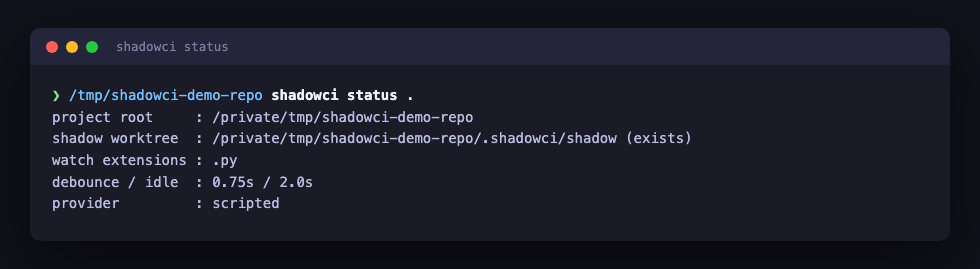
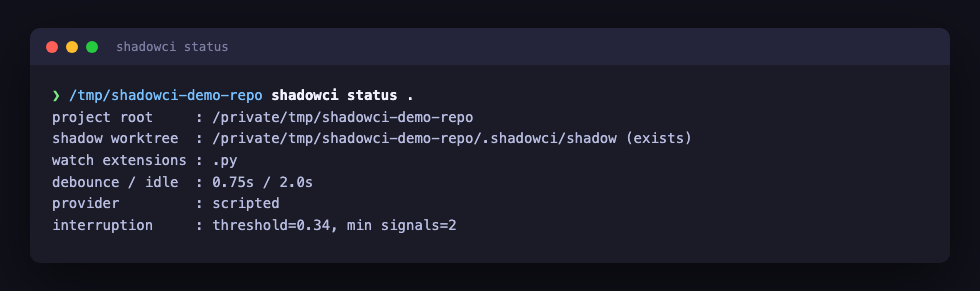
docs: document Phase 4 and capture interruption-policy screenshots
Update README and PROGRESS.md for the interruption policy, and extend
capture_screenshots.py with real apply-ghost/reject-ghost/ignore-ghost/
signals runs so the preview section shows the new CLI surface end to end.

Changed region(s): [[0.0306, 0.2974, 0.7041, 0.803], [0.0306, 0.0892, 0.9796, 0.119], [0.0306, 0.1487, 0.2449, 0.2082]]

diff --git a/scripts/capture_screenshots.py b/scripts/capture_screenshots.py
@@ -271,6 +271,115 @@ def main() -> None:
             browser,
         )
 
+        # 9-12. the interruption policy: accept/reject/ignore signals feed a
+        # per-fingerprint score that decides whether a future fix like this
+        # one gets surfaced or stays quiet on disk.
+        signals_repo = Path(tempfile.gettempdir()) / "shadowci-signals-repo"
+        shutil.rmtree(signals_repo, ignore_errors=True)
+        signals_repo.mkdir(parents=True)
+        subprocess.run(["git", "init", "-q"], cwd=signals_repo, check=True)
+        subprocess.run(["git", "config", "user.name", "Demo User"], cwd=signals_repo, check=True)
+        subprocess.run(["git", "config", "user.email", "demo@example.com"], cwd=signals_repo, check=True)
+        baseline = "def add(a, b):\n    return a + b\n"
+        (signals_repo / "app.py").write_text(baseline)
+        subprocess.run(["git", "add", "app.py"], cwd=signals_repo, check=True)
+        subprocess.run(["git", "commit", "-q", "-m", "initial commit"], cwd=signals_repo, check=True)
+
+        accept_fix = (
+            "--- a/app.py\n"
+            "+++ b/app.py\n"
+            "@@ -1,2 +1,2 @@\n"
+            " def add(a, b):\n"
+            "-    return a + b\n"
+            "+    return a + b  # verified fix\n"
+        )
+
+        def write_patch(name: str, diff: str, fingerprint: str, digest: str) -> Path:
+            patch_path = signals_repo / name
+            patch_path.write_text(diff)
+            patch_path.with_suffix(".json").write_text(
+                f'{{"digest": "{digest}", "fingerprint": "{fingerprint}", "summary": "demo fix"}}'
+            )
+            return patch_path
+
+        # Build up three accepted signals for "pytest-targeted" — the first
+        # is the one we screenshot, the other two just add to its history.
+        for i in range(3):
+            (signals_repo / "app.py").write_text(baseline)
+            patch_path = write_patch(f"accept{i}.patch", accept_fix, "pytest-targeted", f"a{i}")
+            cmd = [PYTHON, "-m", "shadowci", "apply-ghost", patch_path.name, "."]
+            result = run(cmd, cwd=signals_repo)
+            if i == 0:
+                shot(
+                    render(
+                        label(signals_repo),
+                        f"shadowci apply-ghost {patch_path.name} .",
+                        result.stdout, result.stderr, result.returncode,
+                        "shadowci apply-ghost (records an accept signal)",
+                    ),
+                    OUT_DIR / "10-apply-ghost-accept-signal.png",
+                    browser,
+                )
+
+        # One rejected signal for the same fingerprint.
+        reject_patch = write_patch(
+            "reject0.patch",
+            "--- a/app.py\n+++ b/app.py\n@@ -1,2 +1,2 @@\n"
+            " def add(a, b):\n-    return a + b  # verified fix\n+    return a + b  # alt fix\n",
+            "pytest-targeted",
+            "r0",
+        )
+        cmd = [PYTHON, "-m", "shadowci", "reject-ghost", reject_patch.name, "."]
+        result = run(cmd, cwd=signals_repo)
+        shot(
+            render(
+                label(signals_repo),
+                f"shadowci reject-ghost {reject_patch.name} .",
+                result.stdout, result.stderr, result.returncode,
+                "shadowci reject-ghost",
+            ),
+            OUT_DIR / "11-reject-ghost.png",
+            browser,
+        )
+
+        # One ignored signal for a different fingerprint — not enough
+        # history yet for the policy to form an opinion either way.
+        ignore_patch = write_patch(
+            "ignore0.patch",
+            "--- a/app.py\n+++ b/app.py\n@@ -1,2 +1,2 @@\n"
+            " def add(a, b):\n-    return a + b  # verified fix\n+    return a + b  # type-fix\n",
+            "mypy",
+            "i0",
+        )
+        cmd = [PYTHON, "-m", "shadowci", "ignore-ghost", ignore_patch.name, "."]
+        result = run(cmd, cwd=signals_repo)
+        shot(
+            render(
+                label(signals_repo),
+                f"shadowci ignore-ghost {ignore_patch.name} .",
+                result.stdout, result.stderr, result.returncode,
+                "shadowci ignore-ghost",
+            ),
+            OUT_DIR / "12-ignore-ghost.png",
+            browser,
+        )
+
+        # The aggregate view: per-fingerprint counts and the policy's
+        # current verdict for each.
+        cmd = [PYTHON, "-m", "shadowci", "signals", "."]
+        result = run(cmd, cwd=signals_repo)
+        shot(
+            render(
+                label(signals_repo),
+                "shadowci signals .",
+                result.stdout, result.stderr, result.returncode,
+                "shadowci signals",
+            ),
+            OUT_DIR / "13-signals.png",
+            browser,
+        )
+        shutil.rmtree(signals_repo, ignore_errors=True)
+
         browser.close()
 
     shutil.rmtree(demo_repo, ignore_errors=True)

diff --git a/PROGRESS.md b/PROGRESS.md
@@ -136,12 +136,30 @@ quality can be tuned and regression-tested without a human in the loop.
   matching on context lines — it only refuses when the user's own edits
   overlap the exact lines being patched, instead of silently clobbering
   them. `GhostPatchError` covers every verification/apply failure mode.
+- `signals.py` — `SignalStore`: appends/loads `SignalRecord`s (fingerprint,
+  `Signal`, patch digest, timestamp) to/from a flat JSON file under
+  `.shadowci/signals.json` — the durable history the interruption policy
+  scores against.
+- `interruption.py` — `fingerprint_for_patch`: a stable key for "this kind
+  of fix" built from the checks that originally failed (recorded on
+  `EvidenceCard.originally_failed_checks`, added in Phase 4). policy
+  starts biased toward silence — a fingerprint with no history, or fewer
+  than `min_signals` records, never interrupts; once there's enough,
+  `score = (accepts - rejects) / total` and the patch is surfaced only if
+  that score clears `threshold`. `ignore` signals count toward the sample
+  size but don't push the score either way.
 - `cli.py` — `shadowci` command group: `init`, `status`, `watch` (runs
   deterministic checks after every stable change set, escalates on
-  failure, and now builds + saves a ghost patch via `GhostPatchBuilder`
-  when the escalation's fix actually verifies; `watch --skip-checks` opts
-  out of all of it), and `apply-ghost <patch-file>` — the one-command
-  apply of a saved ghost patch to the live tree.
+  failure, builds + saves a ghost patch via `GhostPatchBuilder` when the
+  escalation's fix actually verifies — alongside a `.json` metadata
+  sidecar carrying the patch's fingerprint — then reports the
+  `InterruptionPolicy`'s verdict for it; `watch --skip-checks` opts out of
+  all of it), `apply-ghost <patch-file>` (applies a saved ghost patch to
+  the live tree and records an `accept` signal when a metadata sidecar is
+  present), `reject-ghost <patch-file>` (discards the patch, records
+  `reject`), `ignore-ghost <patch-file>` (leaves the patch on disk,
+  records `ignore`), and `signals` (prints per-fingerprint accept/reject/
+  ignore counts and the policy's current verdict for each).
 - `__main__.py` — `python -m shadowci` entry point.
 
 ## Phased Build Plan
@@ -185,10 +203,21 @@ quality can be tuned and regression-tested without a human in the loop.
   - One-command apply-to-live-files flow (`shadowci apply-ghost`)
   - Full unit test coverage for every module above, all green
 
-- [ ] **Phase 4 — Interruption Policy**
-  - Accept / reject / ignore signal recording
-  - Learned scoring model that keeps default behavior silent
-  - Policy evaluation against recorded signal history
+- [x] **Phase 4 — Interruption Policy**
+  - `Signal` (accept/reject/ignore) recording via `SignalStore`, a durable
+    JSON history under `.shadowci/signals.json`
+  - `EvidenceCard.originally_failed_checks` + `fingerprint_for_patch` give
+    every ghost patch a stable key for "this kind of fix"
+  - `InterruptionPolicy` — a deterministic scoring model, silent by
+    default (no/too-little history never interrupts), that scores
+    `(accepts - rejects) / total` against recorded history per fingerprint
+  - `watch` reports the policy's verdict (surface vs. stay silent) for
+    every verified ghost patch, alongside the saved patch + metadata
+    sidecar; `apply-ghost` / `reject-ghost` / `ignore-ghost` are the CLI
+    surface that records each signal; `signals` reports the running tally
+    and current verdict per fingerprint — this doubles as evaluating the
+    policy against recorded history
+  - Full unit test coverage for every module above, all green
 
 - [ ] **Phase 5 — Bug-Radar TUI**
   - Terminal dashboard (watched files, in-flight change sets, check status,
@@ -202,28 +231,31 @@ quality can be tuned and regression-tested without a human in the loop.
 
 ## Where to resume
 
-**Next session: start Phase 4 (Interruption Policy).** Phases 1–3 are
-complete — scaffold, core data models, polling watcher, change-set
-detector, shadow worktree manager, the full `checks/` package
-(pytest/mypy/ruff/targeted), the `claude-cli`/`local`/`scripted` providers,
-`EscalationPolicy`, `GhostPatchBuilder` (verified test + fix + full-suite
-confirmation + rebased diff), a `watch` command that runs checks, escalates
-on failure, and now saves a verified ghost patch to `.shadowci/ghost/` when
-one checks out, and `apply-ghost` to apply one to the live tree — all
-implemented and fully tested (see `tests/`).
+**Next session: start Phase 5 (Bug-Radar TUI).** Phases 1–4 are complete —
+scaffold, core data models, polling watcher, change-set detector, shadow
+worktree manager, the full `checks/` package (pytest/mypy/ruff/targeted),
+the `claude-cli`/`local`/`scripted` providers, `EscalationPolicy`,
+`GhostPatchBuilder` (verified test + fix + full-suite confirmation +
+rebased diff), `SignalStore` + `InterruptionPolicy` (deterministic,
+silent-by-default scoring over recorded accept/reject/ignore history), and
+a `watch` command that runs checks, escalates on failure, saves a verified
+ghost patch plus a fingerprint metadata sidecar, and reports the
+interruption policy's verdict for it — plus `apply-ghost` / `reject-ghost`
+/ `ignore-ghost` / `signals` to record signals and inspect the running
+tally — all implemented and fully tested (see `tests/`).
 
-Right now every escalation is treated identically: a verified ghost patch
-is always saved and the path printed, with no sense of which fixes are
-worth interrupting the user for versus which should stay silent until
-asked. Phase 4 needs to: add `Signal` recording (accept/reject/ignore —
-`Signal` enum already exists in `events.py`) persisted somewhere durable
-(likely a small JSON/SQLite store under `.shadowci/`); a scoring model that
-starts biased toward silence and adjusts from recorded signal history; and
-a way to evaluate the policy against a recorded signal history so it's
-regression-tested like everything else. `watch`/`apply-ghost` will need a
-way to record the signal when a patch is applied (accept) vs. left on disk
-unapplied (eventually ignore) vs. explicitly discarded (reject) — the CLI
-surface for that is also part of this phase.
+Right now `watch` is a synchronous polling loop that prints everything to
+stdout as it happens — useful for demos and CI, but not an ambient view a
+developer would leave open. Phase 5 needs to: build a terminal dashboard
+(likely `curses` or a small dependency-free render loop, consistent with
+the project's no-mandatory-dependencies stance so far) that shows watched
+files, in-flight change sets, live check status, and a list of pending
+ghost patches with their interruption-policy verdict (surfaced vs.
+silent); and wire `accept`/`reject`/`ignore` keybindings in the TUI to the
+same `SignalStore` / `apply-ghost` / `reject-ghost` / `ignore-ghost` logic
+`cli.py` already has, rather than duplicating it. The existing `watch`
+command's plain-text mode should stay available (e.g. behind a flag) since
+it's what the test suite and CI screenshots exercise headlessly.
 
 A known limitation from Phase 3: if a fix applies but the full-suite
 regression check fails afterward, the shadow worktree is left with the fix
@@ -231,5 +263,15 @@ still applied (only the generated test file is cleaned up) — it'll be
 overwritten on the next `sync()` anyway, but it's not an explicit revert.
 Worth a cleanup pass if the shadow worktree ever needs to be trusted
 mid-failure for something else.
+
+A known limitation from Phase 4: the interruption policy's fingerprint is
+only the sorted set of originally-failed check names (e.g.
+`"pytest-targeted"` or `"mypy,pytest"`) — it doesn't yet distinguish fixes
+by file, project area, or bug shape within the same check. That's a
+deliberately small first cut; a richer fingerprint (e.g. including touched
+file extensions or paths) would need matching history to actually
+accumulate signal per bucket, which isn't worth the complexity until the
+Phase 6 evaluation harness can measure whether it actually improves
+precision.
 
 STATUS: IN_PROGRESS

diff --git a/README.md b/README.md
@@ -23,6 +23,14 @@ verified does it save a "ghost patch": a diff you can apply to your real
 files in one command, `shadowci apply-ghost`, which rebases cleanly onto
 whatever you've edited in the meantime instead of clobbering it.
 
+Every verified patch also feeds an interruption policy: `apply-ghost`,
+`reject-ghost`, and `ignore-ghost` each record what you actually did with a
+fix, grouped by the kind of check that originally failed. With no history
+for that kind of fix yet, ShadowCI stays quiet by default — it only
+flags a patch as worth surfacing once enough accepted fixes of that kind
+show it's wanted. `shadowci signals` shows the running tally and the
+policy's current verdict for each kind of fix.
+
 ## Quick Start
 
 ```bash
@@ -35,7 +43,10 @@ shadowci init                # writes shadowci.toml and creates the shadow workt
 shadowci status               # inspect current configuration
 shadowci watch                 # watch for changes, sync them, run checks, escalate on failure
 shadowci watch --skip-checks    # just watch and sync, skip the check/escalation step
-shadowci apply-ghost <patch>     # apply a verified ghost patch to the live tree
+shadowci apply-ghost <patch>     # apply a verified ghost patch to the live tree (records "accept")
+shadowci reject-ghost <patch>     # discard a saved patch (records "reject")
+shadowci ignore-ghost <patch>      # leave a saved patch unapplied (records "ignore")
+shadowci signals                    # show recorded signal history and current policy scores
 ```
 
 ## Preview
@@ -77,6 +88,31 @@ applying it to your real files is one command — and it rebases onto
 whatever you've edited in the meantime instead of clobbering it.
 
 ![shadowci apply-ghost applying a verified patch](docs/screenshots/08-apply-ghost.png)
+
+**`shadowci apply-ghost` records an accept signal** — applying a patch is
+itself positive feedback: the interruption policy remembers it against the
+kind of fix this was (here, a failing targeted test).
+
+![shadowci apply-ghost recording an accept signal](docs/screenshots/10-apply-ghost-accept-signal.png)
+
+**`shadowci reject-ghost`** — explicitly discarding a patch records a
+reject signal and removes it from disk, pulling that kind of fix's score
+down.
+
+![shadowci reject-ghost discarding a patch](docs/screenshots/11-reject-ghost.png)
+
+**`shadowci ignore-ghost`** — leaving a patch unapplied records an ignore
+signal without deleting it, so a pattern the user never acts on eventually
+earns a verdict instead of being inferred as a weak accept.
+
+![shadowci ignore-ghost recording a signal](docs/screenshots/12-ignore-ghost.png)
+
+**`shadowci signals`** — the aggregate view: per-fingerprint accept/reject/
+ignore counts and the interruption policy's current verdict for each. One
+kind of fix has enough accepted history to be surfaced automatically; the
+other hasn't been seen enough times yet, so it stays silent.
+
+![shadowci signals showing per-fingerprint scores](docs/screenshots/13-signals.png)
 
 **Test suite** — every module shipped so far is covered.
 
@@ -156,10 +192,14 @@ ShadowCI is under active development. Implemented and fully tested so far:
   cleanly, full suite must stay green), then saved as a diff that
   `shadowci apply-ghost` applies to the live tree in one command, rebasing
   onto whatever's changed there since (Phase 3).
+- Interruption policy: `apply-ghost` / `reject-ghost` / `ignore-ghost`
+  record accept/reject/ignore signals grouped by the kind of check that
+  originally failed; a deterministic, silent-by-default scoring model
+  decides whether a future fix of that kind is worth surfacing, and
+  `shadowci signals` reports the running tally and verdict (Phase 4).
 
-The interruption policy, the terminal bug-radar view, and the evaluation
-harness are not built yet — see [PROGRESS.md](PROGRESS.md) for the full
-phased plan.
+The terminal bug-radar view and the evaluation harness are not built yet —
+see [PROGRESS.md](PROGRESS.md) for the full phased plan.
 
 ## License
 
